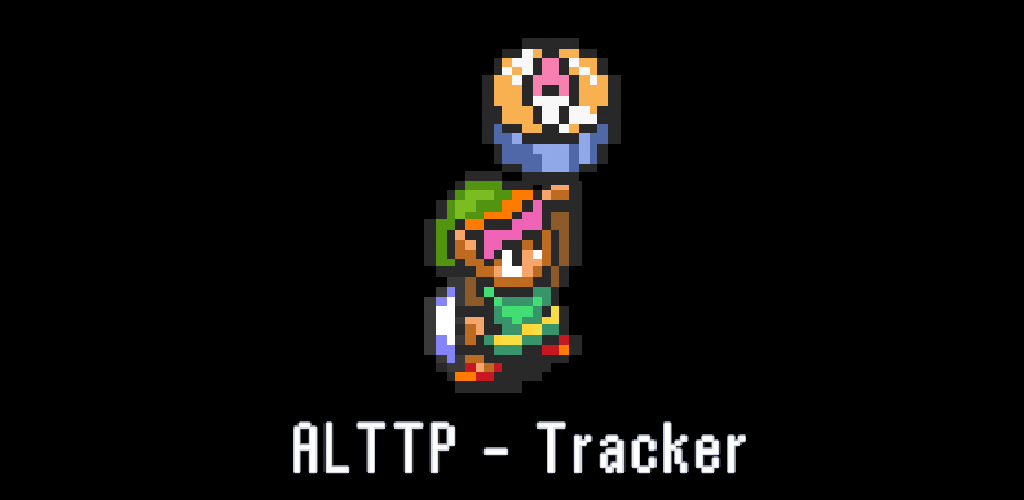
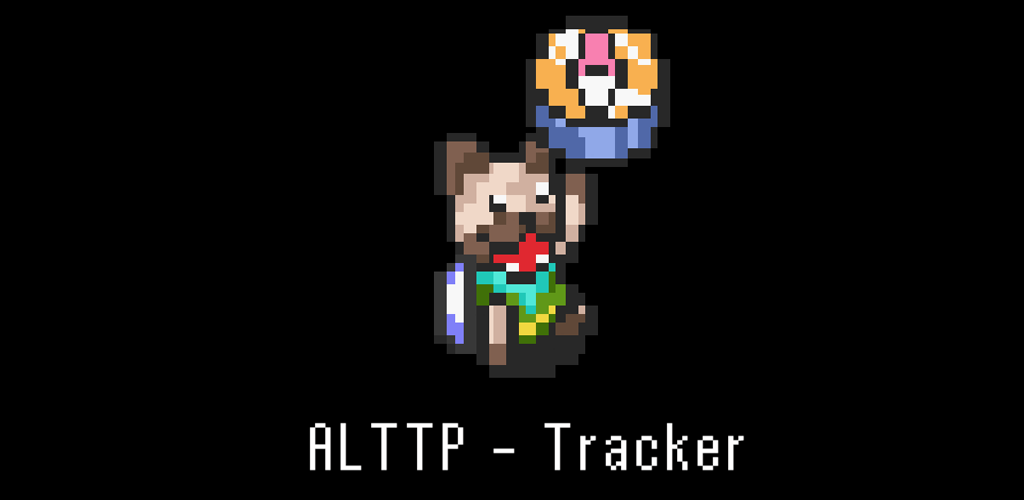
Remove link and beer

Changed region(s): [[0.4062, 0.03, 0.6562, 0.81], [0.2812, 0.84, 0.5, 0.96], [0.5, 0.84, 0.75, 0.96]]

diff --git a/app/components/Home.vue b/app/components/Home.vue
@@ -8,9 +8,11 @@
                 <Label text="More features will be coming as I have time including other modes and glitches." class="welcome" textWrap="true" fontSize="20"  textAlignment="center"/>
                 <Label text="Special thanks to the randomizer community. Visit them!" class="welcome" textWrap="true" fontSize="20"  textAlignment="center"/>
                 <Button class="btn" @tap="clickRandomizer">ALTTP Randomizer</Button>
-                <Button class="btn" @tap="clickReddit">ALTTP on Reddit</Button>
-                <Button class="btn" @tap="clickDiscord">ALTTP Discord</Button>
+                <Button class="btn" @tap="clickReddit">ALTTPR on Reddit</Button>
+                <Button class="btn" @tap="clickDiscord">ALTTPR Discord</Button>
+                <!--
                 <Button class="btn" @tap="clickPayPal">Buy Me A Beer!</Button>
+                -->
             </StackLayout>
         </ScrollView>
     </Page>
